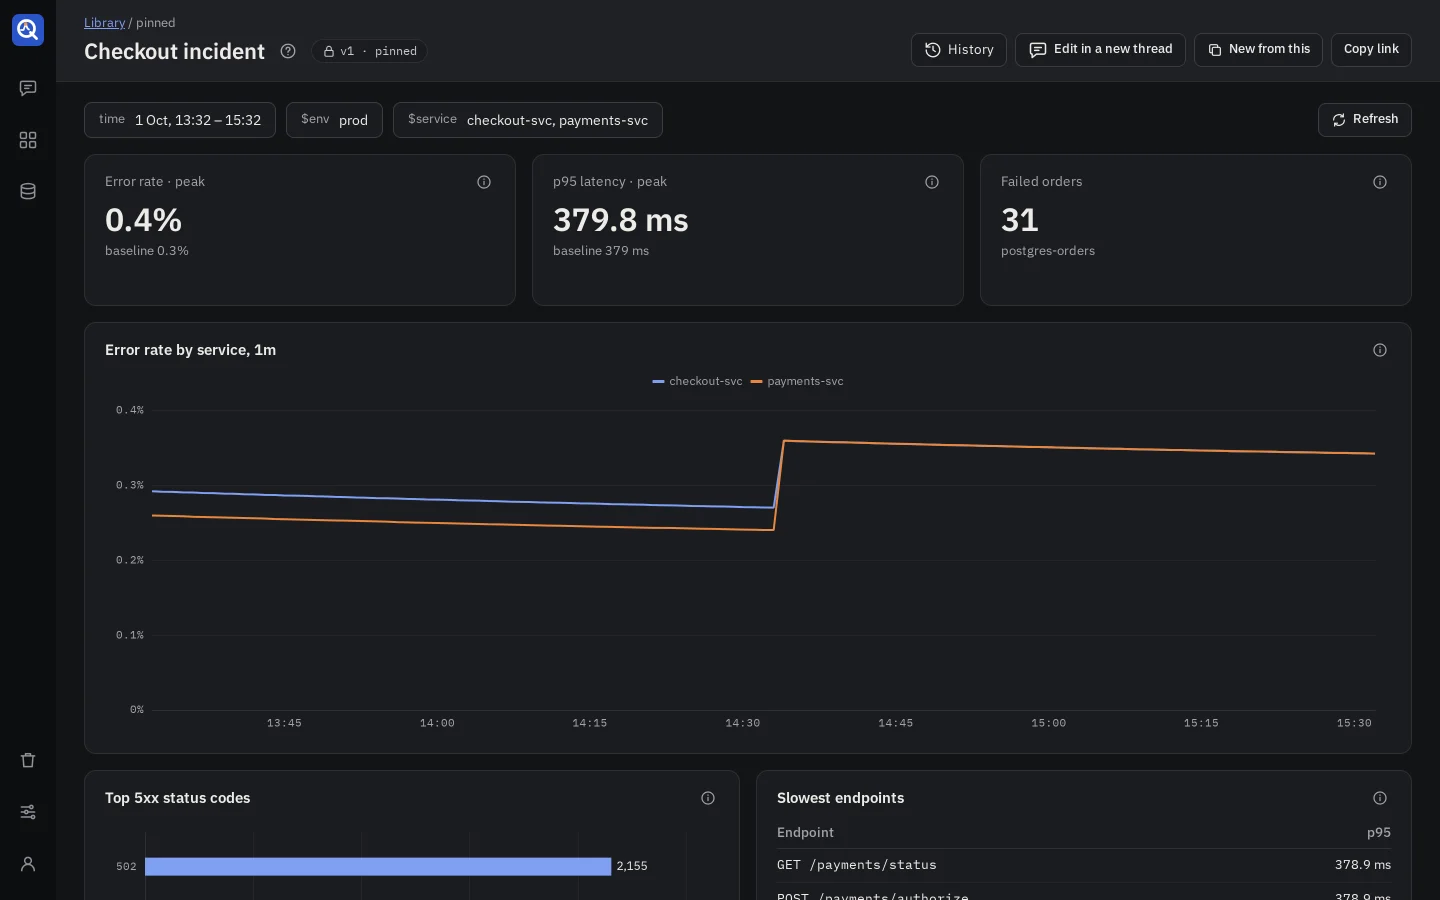
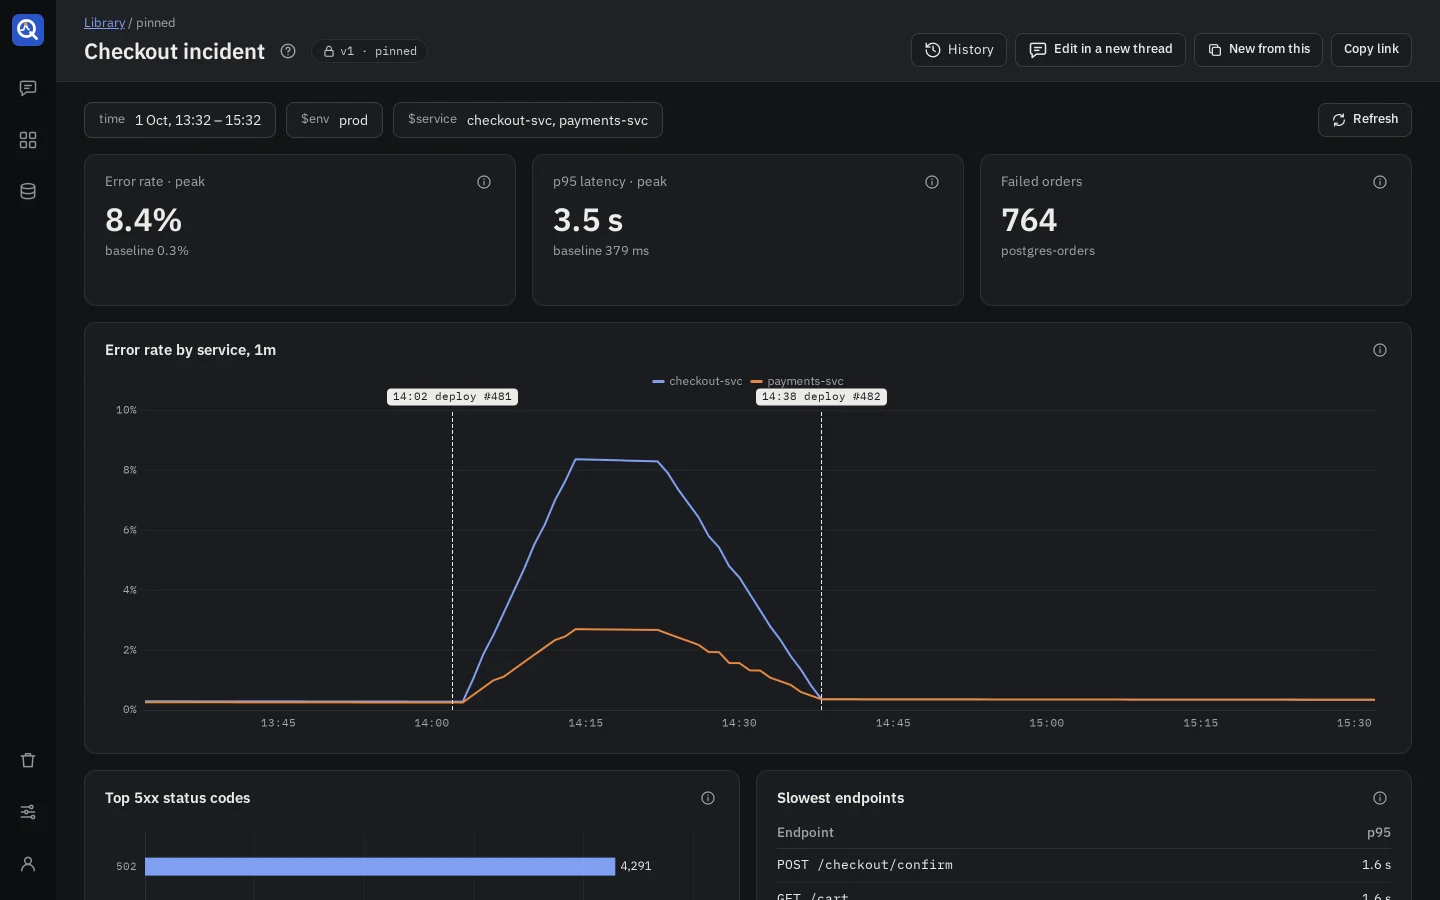
docs: show the incident with its deploy markers in the README's dark screenshot

diff --git a/README.md b/README.md
@@ -26,7 +26,7 @@ the good ones. Pinned dashboards are versioned, searchable, and render without a
   </tr>
   <tr>
     <td><a href="docs/screenshots/library.webp"><img src="docs/screenshots/library.webp" alt="The library of pinned dashboards, searchable by panel and query" width="400"></a></td>
-    <td><a href="docs/screenshots/dashboard-dark.webp"><img src="docs/screenshots/dashboard-dark.webp" alt="A pinned dashboard in the dark scheme" width="400"></a></td>
+    <td><a href="docs/screenshots/dashboard-dark.webp"><img src="docs/screenshots/dashboard-dark.webp" alt="A pinned dashboard in the dark scheme: errors rise after a deploy marker and fall after the rollback" width="400"></a></td>
   </tr>
   <tr>
     <td align="center"><sub>Pin the good ones</sub></td>
